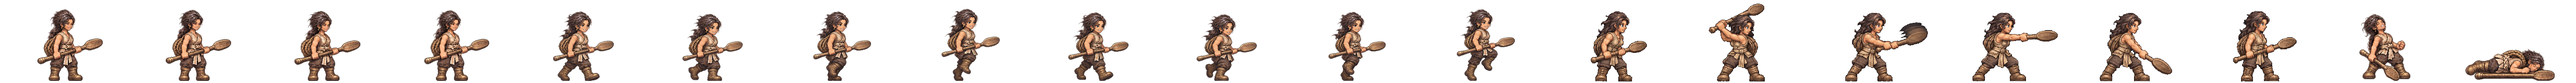
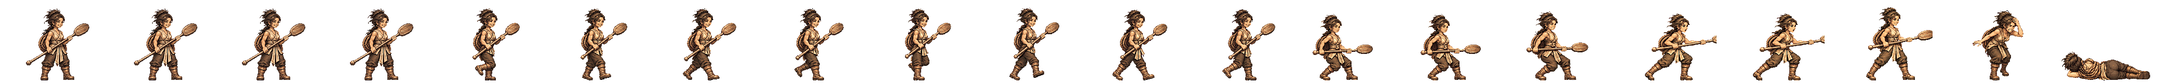
골포 잔물 전투 띠를 새 방식으로: 서기(노 길이 부분 편집 판)·걷기·주걱 노 찌르기 thrust3 여덟 칸(뒷발 박힘)·개성 동작·쓰러짐·맞음(다시 받은 노깃 있는 판) (Codex 그림 · 독립 검수 · 걷기 다리 교대는 다시 받아도 안 읽혀 앞 판 · kit 은 axe 그대로) · 옛 2배 그림 연결 지움
Claude-Session: https://claude.ai/code/session_01TRiuN7s6aDfSnaHxrkctmU

Changed region(s): [[0.0, 0.0625, 1.0, 1.0]]

diff --git a/src/realm/data/spritePx.ts b/src/realm/data/spritePx.ts
@@ -1,3 +1,3 @@
 /** public/realm/anim-px/manifest.json 의 사본 — tools/sprite-normalize.mjs 가 만든다 (손으로 고치지 말 것). 칸 [가로, 세로] · feet = 발 줄(칸 위에서 y) · bodyPx = 서 있는 몸 키 */
 import { expandManifest } from './sprite-manifest.ts'
-export const SPRITE_PX: Readonly<Record<string, { readonly cell: readonly [number, number]; readonly feet: number; readonly bodyPx: number; readonly kind: 'general' | 'soldier' | 'folk' | 'crowd'; readonly cells: number }>> = expandManifest<{ readonly cell: readonly [number, number]; readonly feet: number; readonly bodyPx: number; readonly kind: 'general' | 'soldier' | 'folk' | 'crowd'; readonly cells: number }>([{"cell":[166,128],"feet":126,"bodyPx":124,"kind":"soldier","cells":20},{"cell":[116,128],"feet":126,"bodyPx":117,"kind":"soldier","cells":20},{"cell":[127,128],"feet":126,"bodyPx":116,"kind":"soldier","cells":20},{"cell":[269,128],"feet":126,"bodyPx":126,"kind":"soldier","cells":20},{"cell":[503,128],"feet":126,"bodyPx":127,"kind":"soldier","cells":20},{"cell":[614,128],"feet":126,"bodyPx":126,"kind":"soldier","cells":20},{"cell":[200,160],"feet":156,"bodyPx":138,"kind":"general","cells":20},{"cell":[208,160],"feet":155,"bodyPx":138,"kind":"general","cells":20},{"cell":[208,160],"feet":154,"bodyPx":138,"kind":"general","cells":20},{"cell":[304,160],"feet":155,"bodyPx":135,"kind":"general","cells":20},{"cell":[184,160],"feet":156,"bodyPx":138,"kind":"general","cells":20},{"cell":[208,160],"feet":154,"bodyPx":136,"kind":"general","cells":20},{"cell":[232,160],"feet":156,"bodyPx":138,"kind":"general","cells":20},{"cell":[208,160],"feet":156,"bodyPx":138,"kind":"general","cells":20},{"cell":[168,160],"feet":156,"bodyPx":124,"kind":"general","cells":20},{"cell":[216,160],"feet":156,"bodyPx":130,"kind":"general","cells":20},{"cell":[200,160],"feet":156,"bodyPx":116,"kind":"general","cells":20},{"cell":[192,160],"feet":156,"bodyPx":138,"kind":"general","cells":20},{"cell":[208,160],"feet":154,"bodyPx":135,"kind":"general","cells":20},{"cell":[280,160],"feet":156,"bodyPx":138,"kind":"general","cells":20},{"cell":[232,160],"feet":156,"bodyPx":134,"kind":"general","cells":20},{"cell":[144,160],"feet":156,"bodyPx":70,"kind":"general","cells":20},{"cell":[208,160],"feet":156,"bodyPx":70,"kind":"general","cells":20},{"cell":[192,160],"feet":156,"bodyPx":70,"kind":"general","cells":20},{"cell":[240,160],"feet":155,"bodyPx":138,"kind":"general","cells":20},{"cell":[192,160],"feet":156,"bodyPx":128,"kind":"general","cells":20},{"cell":[208,160],"feet":154,"bodyPx":137,"kind":"general","cells":20},{"cell":[216,160],"feet":156,"bodyPx":138,"kind":"general","cells":20},{"cell":[208,160],"feet":156,"bodyPx":134,"kind":"general","cells":20},{"cell":[208,160],"feet":154,"bodyPx":130,"kind":"general","cells":20},{"cell":[248,160],"feet":156,"bodyPx":138,"kind":"general","cells":20},{"cell":[248,160],"feet":155,"bodyPx":138,"kind":"general","cells":20},{"cell":[192,160],"feet":155,"bodyPx":138,"kind":"general","cells":20},{"cell":[192,160],"feet":156,"bodyPx":124,"kind":"general","cells":20},{"cell":[208,160],"feet":154,"bodyPx":131,"kind":"general","cells":20},{"cell":[240,160],"feet":156,"bodyPx":138,"kind":"general","cells":20},{"cell":[232,160],"feet":156,"bodyPx":73,"kind":"general","cells":20},{"cell":[224,160],"feet":156,"bodyPx":138,"kind":"general","cells":20},{"cell":[224,160],"feet":156,"bodyPx":128,"kind":"general","cells":20},{"cell":[176,160],"feet":156,"bodyPx":129,"kind":"general","cells":20},{"cell":[208,160],"feet":154,"bodyPx":139,"kind":"general","cells":20},{"cell":[232,160],"feet":155,"bodyPx":138,"kind":"general","cells":20},{"cell":[208,160],"feet":156,"bodyPx":132,"kind":"general","cells":20},{"cell":[184,160],"feet":156,"bodyPx":122,"kind":"general","cells":20},{"cell":[280,160],"feet":155,"bodyPx":133,"kind":"general","cells":20},{"cell":[176,160],"feet":156,"bodyPx":70,"kind":"general","cells":20},{"cell":[186,128],"feet":126,"bodyPx":127,"kind":"soldier","cells":20},{"cell":[298,128],"feet":126,"bodyPx":126,"kind":"soldier","cells":20},{"cell":[82,128],"feet":126,"bodyPx":114,"kind":"folk","cells":8},{"cell":[134,128],"feet":126,"bodyPx":119,"kind":"soldier","cells":20},{"cell":[380,128],"feet":126,"bodyPx":124,"kind":"soldier","cells":20},{"cell":[114,128],"feet":126,"bodyPx":115,"kind":"soldier","cells":20},{"cell":[122,128],"feet":126,"bodyPx":114,"kind":"soldier","cells":20},{"cell":[254,128],"feet":126,"bodyPx":128,"kind":"soldier","cells":20},{"cell":[438,128],"feet":126,"bodyPx":126,"kind":"soldier","cells":20},{"cell":[88,128],"feet":126,"bodyPx":113,"kind":"folk","cells":8},{"cell":[100,128],"feet":126,"bodyPx":115,"kind":"folk","cells":8},{"cell":[108,128],"feet":126,"bodyPx":115,"kind":"folk","cells":8},{"cell":[63,128],"feet":126,"bodyPx":113,"kind":"folk","cells":8},{"cell":[69,96],"feet":96,"bodyPx":96,"kind":"crowd","cells":1},{"cell":[54,96],"feet":96,"bodyPx":96,"kind":"crowd","cells":1},{"cell":[47,96],"feet":96,"bodyPx":96,"kind":"crowd","cells":1},{"cell":[49,96],"feet":96,"bodyPx":96,"kind":"crowd","cells":1},{"cell":[57,96],"feet":96,"bodyPx":96,"kind":"crowd","cells":1},{"cell":[55,96],"feet":96,"bodyPx":96,"kind":"crowd","cells":1},{"cell":[45,96],"feet":96,"bodyPx":96,"kind":"crowd","cells":1},{"cell":[53,96],"feet":96,"bodyPx":96,"kind":"crowd","cells":1},{"cell":[64,96],"feet":96,"bodyPx":96,"kind":"crowd","cells":1},{"cell":[264,160],"feet":156,"bodyPx":138,"kind":"general","cells":20},{"cell":[184,160],"feet":156,"bodyPx":124,"kind":"general","cells":20},{"cell":[256,160],"feet":156,"bodyPx":138,"kind":"general","cells":20},{"cell":[208,160],"feet":154,"bodyPx":134,"kind":"general","cells":20},{"cell":[224,160],"feet":156,"bodyPx":133,"kind":"general","cells":20},{"cell":[184,160],"feet":156,"bodyPx":137,"kind":"general","cells":20},{"cell":[176,160],"feet":156,"bodyPx":130,"kind":"general","cells":20},{"cell":[216,160],"feet":156,"bodyPx":134,"kind":"general","cells":20},{"cell":[216,160],"feet":156,"bodyPx":132,"kind":"general","cells":20},{"cell":[288,160],"feet":156,"bodyPx":138,"kind":"general","cells":20},{"cell":[192,160],"feet":156,"bodyPx":118,"kind":"general","cells":20},{"cell":[208,160],"feet":154,"bodyPx":132,"kind":"general","cells":20},{"cell":[208,160],"feet":154,"bodyPx":128,"kind":"general","cells":20},{"cell":[240,160],"feet":156,"bodyPx":128,"kind":"general","cells":20},{"cell":[184,160],"feet":156,"bodyPx":132,"kind":"general","cells":20},{"cell":[208,160],"feet":156,"bodyPx":123,"kind":"general","cells":20},{"cell":[192,160],"feet":156,"bodyPx":135,"kind":"general","cells":20},{"cell":[176,160],"feet":156,"bodyPx":116,"kind":"general","cells":20},{"cell":[272,160],"feet":156,"bodyPx":138,"kind":"general","cells":20},{"cell":[176,160],"feet":156,"bodyPx":138,"kind":"general","cells":20},{"cell":[176,160],"feet":156,"bodyPx":122,"kind":"general","cells":20},{"cell":[232,160],"feet":156,"bodyPx":127,"kind":"general","cells":20},{"cell":[184,160],"feet":156,"bodyPx":134,"kind":"general","cells":20},{"cell":[168,160],"feet":156,"bodyPx":138,"kind":"general","cells":20},{"cell":[176,160],"feet":156,"bodyPx":137,"kind":"general","cells":20},{"cell":[184,160],"feet":156,"bodyPx":133,"kind":"general","cells":20}],[["axe",0],["bandit-chief",1],["bandit-club",2],["boat",3],["bow",4],["crossbow",5],["gen-adogan",6],["gen-alpyeong",7],["gen-ara",8],["gen-areum",8],["gen-aryeong",9],["gen-bakdal",8],["gen-baram",8],["gen-bdanbi",10],["gen-beom",11],["gen-beombal",8],["gen-beomi",8],["gen-bira",12],["gen-biryu",13],["gen-budeul",8],["gen-byeol",8],["gen-daemusin",14],["gen-daeso",15],["gen-dallae2",8],["gen-dalli",8],["gen-damul",16],["gen-danbi",8],["gen-dangung",17],["gen-darae",18],["gen-dokmudeom",8],["gen-duman",19],["gen-eomni",8],["gen-eureum",20],["gen-g-bow",21],["gen-g-spear",22],["gen-g-sword",23],["gen-gaennae",8],["gen-gamsil",24],["gen-gaon",18],["gen-geota",13],["gen-geumbawi",10],["gen-geumha",25],["gen-goeun",8],["gen-gom",8],["gen-gomok",13],["gen-gureum",8],["gen-guryema",17],["gen-gwaeyu",12],["gen-haebi",8],["gen-haedal",6],["gen-haesol",8],["gen-halla",26],["gen-heo",8],["gen-hneoul",27],["gen-hogong",27],["gen-hojin",13],["gen-horselord",28],["gen-hwalmi",29],["gen-hyeokgeose",17],["gen-hyeopbo",6],["gen-irang",8],["gen-jibaekho",30],["gen-jinha",31],["gen-jita",32],["gen-jumong",33],["gen-keundol",7],["gen-maehwa",34],["gen-maenun",17],["gen-malgalgi",8],["gen-mari",35],["gen-maro",30],["gen-maryeo",13],["gen-mdallae",8],["gen-mir",8],["gen-mount",36],["gen-mulbeom",26],["gen-mulsae",26],["gen-musoe",27],["gen-noeul",8],["gen-nuri",8],["gen-ocheongan",37],["gen-odi",8],["gen-odogan",6],["gen-ogan",17],["gen-oi",38],["gen-olddaeso",20],["gen-onjo",39],["gen-pidogan",13],["gen-sagong",40],["gen-sdallae",8],["gen-sincheongan",8],["gen-singwigan",27],["gen-sinneoul",8],["gen-sobeol",41],["gen-soebi",8],["gen-soebo",42],["gen-soenun",40],["gen-sogeumbi",26],["gen-songbi",8],["gen-songyang",43],["gen-sori",8],["gen-soseono",44],["gen-suro",17],["gen-tahae",6],["gen-tneoul",8],["gen-w-bow",21],["gen-w-spear",45],["gen-waechief",13],["gen-wan",27],["gen-yeodogan",13],["gen-yucheongan",8],["gen-yusugan",30],["horse",46],["marine",47],["migrant",48],["militia",49],["pike",50],["pirate-captain",51],["pirate-sword",52],["shield",53],["spear",54],["villager-builder",55],["villager-farmer",56],["villager-porter",57],["villager-woman",58],["crowd-b1",59],["crowd-b2",60],["crowd-b3",61],["crowd-b4",62],["crowd-b5",63],["crowd-b6",64],["crowd-f1",59],["crowd-f2",64],["crowd-f3",65],["crowd-f4",66],["crowd-f5",59],["crowd-f6",67],["gen-dalbit",13],["gen-base-g-07-drunk-warrior",17],["gen-base-g-40-anya-adan",13],["gen-base-w-13-young-archer",8],["gen-base-g-03-sea-trader",35],["gen-base-w-10-pirate-captain",40],["gen-base-w-64-miri-dallae",40],["gen-base-g-41-goja-bau",35],["gen-base-g-42-dokro-garam",68],["gen-base-g-09-farmer-conscript",27],["gen-base-w-02-goguryeo-lady",8],["gen-base-w-17-mahan-pearl-diver",8],["gen-base-g-17-saro-isageum",42],["gen-base-g-18-daegaya-king",69],["gen-base-g-35-dabeol-dalgu",13],["gen-base-g-19-sabeol-veteran",27],["gen-base-w-23-usisan-whale-queen",8],["gen-base-g-36-gammun-gamdol",37],["gen-base-g-20-samul-sea-lord",70],["gen-base-g-37-eumjeup-jeup",10],["gen-base-g-38-chopal-palmae",17],["gen-base-w-75-daegaya-soemoe",8],["gen-base-g-45-dabeol-deulgae",10],["gen-base-g-04-jinhan-giant",13],["gen-base-g-08-veteran",13],["gen-base-w-18-jinhan-salt-widow",8],["gen-base-w-12-court-dancer",71],["gen-base-w-83-gyeonji-beodeul",72],["gen-base-w-05-baekje-queen",18],["gen-base-w-21-baekje-court-dancer",10],["gen-base-g-01-master-smith",73],["gen-base-g-93-jomun-solgae",74],["gen-base-g-57-bihwa-neup",35],["gen-base-w-72-eumjeup-beol",8],["gen-base-w-102-garak-dana",40],["gen-base-g-68-baekje-onnuri",13],["gen-base-w-27-mokji-jinha",6],["gen-base-g-22-ungcheon-gomnae",6],["gen-base-g-23-sangdang-soedal",13],["gen-base-g-24-wansan-onsan",6],["gen-base-g-25-balla-keunmoe",27],["gen-base-g-61-heomcheuk-bawi",27],["gen-base-g-88-wander-soeul",37],["gen-base-w-14-feast-spy",8],["gen-base-g-12-silla-youth",75],["gen-base-w-08-mahan-warrior",8],["gen-base-g-62-beonye-hanul",35],["gen-base-g-63-heomcheuk-beogeum",13],["gen-base-g-84-wander-seoneul",13],["gen-base-w-50-siljik-mulga",27],["gen-base-g-46-uga-nureongso",27],["gen-base-w-80-usan-gangchi",40],["gen-base-g-47-guga-sanyanggae",27],["gen-base-w-76-gampyeong-baetsagong",8],["gen-base-g-05-mahan-chieftain",76],["gen-base-g-58-usan-uhae",13],["gen-base-g-27-maek-maekdol",13],["gen-base-w-53-hwanna-gabi",40],["gen-base-w-29-golpo-janmul",30],["gen-base-g-53-baekje-haeru",6],["gen-base-w-71-yeonna-neoul",8],["gen-base-w-79-yangmaek-solmae",8],["gen-base-w-34-chopal-deulme",8],["gen-base-g-44-maga-malgup",77],["gen-base-w-31-dabeol-dalbit",40],["gen-base-g-51-biryuna-mulgyeol",37],["gen-base-g-48-gwanna-musoe",13],["gen-base-g-32-uga-sodu",12],["gen-base-g-49-goguryeo-sona",78],["gen-base-g-30-gwanna-soemoe",37],["gen-base-g-52-tamna-oreum",10],["gen-base-g-29-yeonna-myeongsol",33],["gen-base-w-56-dongokjeo-sogeum",71],["gen-base-g-54-mokji-mahan",12],["gen-base-g-33-jeoga-metdol",17],["gen-base-w-36-baekje-maena",8],["gen-base-w-38-sangdang-bulmae",40],["gen-base-w-39-gosaburi-galmae",8],["gen-base-w-40-mujin-munui",79],["gen-base-w-41-hwanna-beodeul",80],["gen-base-w-43-uga-nuri",70],["gen-base-w-45-tamna-oreumbi",10],["gen-base-g-60-golbeol-golgae",10],["gen-base-g-61-apdok-ap",27],["gen-base-g-62-gammun-gamnamu",6],["gen-base-g-63-chopal-yeoul",30],["gen-base-g-64-michuhol-sogeumkkun",35],["gen-base-g-65-sangdang-soemangchi",37],["gen-base-g-66-geonma-malbalgup",81],["gen-base-g-67-gosaburi-buri",82],["gen-base-g-68-mujin-bitgoeul",10],["gen-base-g-69-goryong-yong",37],["gen-base-g-70-siljik-pado",35],["gen-base-w-81-byeokjin-byeolbit",8],["gen-base-w-46-geonma-maru",8],["gen-base-w-48-mujin-mudeung",8],["gen-base-g-26-gampyeong-gaetbeol",12],["gen-base-g-60-eupcha-hangyeol",83],["gen-base-g-15-shaman-man",27],["gen-base-g-85-wander-ure",30],["gen-base-g-43-hwanna-amnok",13],["gen-base-g-50-bullae-gwaha",84],["gen-base-g-55-saro-bakdal",13],["gen-base-g-56-haseulla-gwahama",6],["gen-base-w-06-buyeo-huntress",26],["gen-base-w-22-dongye-tiger-huntress",8],["gen-base-w-25-bihwa-priestess",8],["gen-base-w-24-apdok-queen",8],["gen-base-w-61-iseo-sinae",8],["gen-base-w-26-iseo-tomboy-general",8],["gen-base-g-59-yangmaek-maekson",85],["gen-aw1-haebi",37],["gen-aw1-soseono",86],["gen-aw1-gamsil",10],["gen-aw1-mir",87],["gen-aw1-dangung",6],["gen-aw1-ara",37],["gen-aw1-jumong",88],["gen-aw1-onjo",89],["gen-aw1-base-w-83-gyeonji-beodeul",17],["gen-aw1-heo",68],["gen-aw1-base-g-38-chopal-palmae",6],["gen-aw1-base-w-25-bihwa-priestess",90],["gen-aw1-sori",91],["gen-aw1-gomok",6],["gen-aw1-irang",17],["gen-aw1-budeul",91],["gen-aw1-gom",35],["gen-aw1-sdallae",6],["gen-aw1-base-w-13-young-archer",6],["gen-aw1-base-w-36-baekje-maena",92],["gen-aw1-base-g-09-farmer-conscript",68],["gen-aw1-base-w-02-goguryeo-lady",93],["gen-aw1-haedal",10],["gen-aw1-hogong",6],["gen-aw1-maehwa",87],["gen-aw1-base-w-06-buyeo-huntress",12],["gen-aw1-base-w-08-mahan-warrior",37],["gen-aw1-base-w-29-golpo-janmul",37],["gen-aw1-base-w-31-dabeol-dalbit",17],["gen-aw1-base-w-38-sangdang-bulmae",91],["gen-aw1-bira",27],["gen-aw1-base-w-53-hwanna-gabi",91],["gen-aw1-base-w-56-dongokjeo-sogeum",87],["gen-aw1-base-w-72-eumjeup-beol",17],["gen-aw1-bdanbi",91],["gen-aw1-beom",10],["gen-aw1-beombal",10],["gen-aw1-byeol",17],["gen-aw1-dalli",87],["gen-aw1-malgalgi",30],["gen-aw1-sincheongan",27]])
+export const SPRITE_PX: Readonly<Record<string, { readonly cell: readonly [number, number]; readonly feet: number; readonly bodyPx: number; readonly kind: 'general' | 'soldier' | 'folk' | 'crowd'; readonly cells: number }>> = expandManifest<{ readonly cell: readonly [number, number]; readonly feet: number; readonly bodyPx: number; readonly kind: 'general' | 'soldier' | 'folk' | 'crowd'; readonly cells: number }>([{"cell":[166,128],"feet":126,"bodyPx":124,"kind":"soldier","cells":20},{"cell":[116,128],"feet":126,"bodyPx":117,"kind":"soldier","cells":20},{"cell":[127,128],"feet":126,"bodyPx":116,"kind":"soldier","cells":20},{"cell":[269,128],"feet":126,"bodyPx":126,"kind":"soldier","cells":20},{"cell":[503,128],"feet":126,"bodyPx":127,"kind":"soldier","cells":20},{"cell":[614,128],"feet":126,"bodyPx":126,"kind":"soldier","cells":20},{"cell":[200,160],"feet":156,"bodyPx":138,"kind":"general","cells":20},{"cell":[208,160],"feet":155,"bodyPx":138,"kind":"general","cells":20},{"cell":[208,160],"feet":154,"bodyPx":138,"kind":"general","cells":20},{"cell":[304,160],"feet":155,"bodyPx":135,"kind":"general","cells":20},{"cell":[184,160],"feet":156,"bodyPx":138,"kind":"general","cells":20},{"cell":[208,160],"feet":154,"bodyPx":136,"kind":"general","cells":20},{"cell":[232,160],"feet":156,"bodyPx":138,"kind":"general","cells":20},{"cell":[208,160],"feet":156,"bodyPx":138,"kind":"general","cells":20},{"cell":[168,160],"feet":156,"bodyPx":124,"kind":"general","cells":20},{"cell":[216,160],"feet":156,"bodyPx":130,"kind":"general","cells":20},{"cell":[200,160],"feet":156,"bodyPx":116,"kind":"general","cells":20},{"cell":[192,160],"feet":156,"bodyPx":138,"kind":"general","cells":20},{"cell":[208,160],"feet":154,"bodyPx":135,"kind":"general","cells":20},{"cell":[280,160],"feet":156,"bodyPx":138,"kind":"general","cells":20},{"cell":[232,160],"feet":156,"bodyPx":134,"kind":"general","cells":20},{"cell":[144,160],"feet":156,"bodyPx":70,"kind":"general","cells":20},{"cell":[208,160],"feet":156,"bodyPx":70,"kind":"general","cells":20},{"cell":[192,160],"feet":156,"bodyPx":70,"kind":"general","cells":20},{"cell":[240,160],"feet":155,"bodyPx":138,"kind":"general","cells":20},{"cell":[192,160],"feet":156,"bodyPx":128,"kind":"general","cells":20},{"cell":[208,160],"feet":154,"bodyPx":137,"kind":"general","cells":20},{"cell":[216,160],"feet":156,"bodyPx":138,"kind":"general","cells":20},{"cell":[208,160],"feet":156,"bodyPx":134,"kind":"general","cells":20},{"cell":[208,160],"feet":154,"bodyPx":130,"kind":"general","cells":20},{"cell":[248,160],"feet":156,"bodyPx":138,"kind":"general","cells":20},{"cell":[248,160],"feet":155,"bodyPx":138,"kind":"general","cells":20},{"cell":[192,160],"feet":155,"bodyPx":138,"kind":"general","cells":20},{"cell":[192,160],"feet":156,"bodyPx":124,"kind":"general","cells":20},{"cell":[208,160],"feet":154,"bodyPx":131,"kind":"general","cells":20},{"cell":[240,160],"feet":156,"bodyPx":138,"kind":"general","cells":20},{"cell":[232,160],"feet":156,"bodyPx":73,"kind":"general","cells":20},{"cell":[224,160],"feet":156,"bodyPx":138,"kind":"general","cells":20},{"cell":[224,160],"feet":156,"bodyPx":128,"kind":"general","cells":20},{"cell":[176,160],"feet":156,"bodyPx":129,"kind":"general","cells":20},{"cell":[208,160],"feet":154,"bodyPx":139,"kind":"general","cells":20},{"cell":[232,160],"feet":155,"bodyPx":138,"kind":"general","cells":20},{"cell":[208,160],"feet":156,"bodyPx":132,"kind":"general","cells":20},{"cell":[184,160],"feet":156,"bodyPx":122,"kind":"general","cells":20},{"cell":[280,160],"feet":155,"bodyPx":133,"kind":"general","cells":20},{"cell":[176,160],"feet":156,"bodyPx":70,"kind":"general","cells":20},{"cell":[186,128],"feet":126,"bodyPx":127,"kind":"soldier","cells":20},{"cell":[298,128],"feet":126,"bodyPx":126,"kind":"soldier","cells":20},{"cell":[82,128],"feet":126,"bodyPx":114,"kind":"folk","cells":8},{"cell":[134,128],"feet":126,"bodyPx":119,"kind":"soldier","cells":20},{"cell":[380,128],"feet":126,"bodyPx":124,"kind":"soldier","cells":20},{"cell":[114,128],"feet":126,"bodyPx":115,"kind":"soldier","cells":20},{"cell":[122,128],"feet":126,"bodyPx":114,"kind":"soldier","cells":20},{"cell":[254,128],"feet":126,"bodyPx":128,"kind":"soldier","cells":20},{"cell":[438,128],"feet":126,"bodyPx":126,"kind":"soldier","cells":20},{"cell":[88,128],"feet":126,"bodyPx":113,"kind":"folk","cells":8},{"cell":[100,128],"feet":126,"bodyPx":115,"kind":"folk","cells":8},{"cell":[108,128],"feet":126,"bodyPx":115,"kind":"folk","cells":8},{"cell":[63,128],"feet":126,"bodyPx":113,"kind":"folk","cells":8},{"cell":[69,96],"feet":96,"bodyPx":96,"kind":"crowd","cells":1},{"cell":[54,96],"feet":96,"bodyPx":96,"kind":"crowd","cells":1},{"cell":[47,96],"feet":96,"bodyPx":96,"kind":"crowd","cells":1},{"cell":[49,96],"feet":96,"bodyPx":96,"kind":"crowd","cells":1},{"cell":[57,96],"feet":96,"bodyPx":96,"kind":"crowd","cells":1},{"cell":[55,96],"feet":96,"bodyPx":96,"kind":"crowd","cells":1},{"cell":[45,96],"feet":96,"bodyPx":96,"kind":"crowd","cells":1},{"cell":[53,96],"feet":96,"bodyPx":96,"kind":"crowd","cells":1},{"cell":[64,96],"feet":96,"bodyPx":96,"kind":"crowd","cells":1},{"cell":[264,160],"feet":156,"bodyPx":138,"kind":"general","cells":20},{"cell":[184,160],"feet":156,"bodyPx":124,"kind":"general","cells":20},{"cell":[256,160],"feet":156,"bodyPx":138,"kind":"general","cells":20},{"cell":[208,160],"feet":154,"bodyPx":134,"kind":"general","cells":20},{"cell":[224,160],"feet":156,"bodyPx":133,"kind":"general","cells":20},{"cell":[184,160],"feet":156,"bodyPx":137,"kind":"general","cells":20},{"cell":[176,160],"feet":156,"bodyPx":130,"kind":"general","cells":20},{"cell":[216,160],"feet":156,"bodyPx":134,"kind":"general","cells":20},{"cell":[216,160],"feet":156,"bodyPx":132,"kind":"general","cells":20},{"cell":[288,160],"feet":156,"bodyPx":138,"kind":"general","cells":20},{"cell":[192,160],"feet":156,"bodyPx":118,"kind":"general","cells":20},{"cell":[208,160],"feet":154,"bodyPx":132,"kind":"general","cells":20},{"cell":[208,160],"feet":154,"bodyPx":128,"kind":"general","cells":20},{"cell":[240,160],"feet":156,"bodyPx":128,"kind":"general","cells":20},{"cell":[184,160],"feet":156,"bodyPx":132,"kind":"general","cells":20},{"cell":[208,160],"feet":156,"bodyPx":123,"kind":"general","cells":20},{"cell":[192,160],"feet":156,"bodyPx":135,"kind":"general","cells":20},{"cell":[176,160],"feet":156,"bodyPx":116,"kind":"general","cells":20},{"cell":[272,160],"feet":156,"bodyPx":138,"kind":"general","cells":20},{"cell":[176,160],"feet":156,"bodyPx":138,"kind":"general","cells":20},{"cell":[176,160],"feet":156,"bodyPx":122,"kind":"general","cells":20},{"cell":[232,160],"feet":156,"bodyPx":127,"kind":"general","cells":20},{"cell":[184,160],"feet":156,"bodyPx":134,"kind":"general","cells":20},{"cell":[168,160],"feet":156,"bodyPx":138,"kind":"general","cells":20},{"cell":[176,160],"feet":156,"bodyPx":137,"kind":"general","cells":20},{"cell":[184,160],"feet":156,"bodyPx":133,"kind":"general","cells":20}],[["axe",0],["bandit-chief",1],["bandit-club",2],["boat",3],["bow",4],["crossbow",5],["gen-adogan",6],["gen-alpyeong",7],["gen-ara",8],["gen-areum",8],["gen-aryeong",9],["gen-bakdal",8],["gen-baram",8],["gen-bdanbi",10],["gen-beom",11],["gen-beombal",8],["gen-beomi",8],["gen-bira",12],["gen-biryu",13],["gen-budeul",8],["gen-byeol",8],["gen-daemusin",14],["gen-daeso",15],["gen-dallae2",8],["gen-dalli",8],["gen-damul",16],["gen-danbi",8],["gen-dangung",17],["gen-darae",18],["gen-dokmudeom",8],["gen-duman",19],["gen-eomni",8],["gen-eureum",20],["gen-g-bow",21],["gen-g-spear",22],["gen-g-sword",23],["gen-gaennae",8],["gen-gamsil",24],["gen-gaon",18],["gen-geota",13],["gen-geumbawi",10],["gen-geumha",25],["gen-goeun",8],["gen-gom",8],["gen-gomok",13],["gen-gureum",8],["gen-guryema",17],["gen-gwaeyu",12],["gen-haebi",8],["gen-haedal",6],["gen-haesol",8],["gen-halla",26],["gen-heo",8],["gen-hneoul",27],["gen-hogong",27],["gen-hojin",13],["gen-horselord",28],["gen-hwalmi",29],["gen-hyeokgeose",17],["gen-hyeopbo",6],["gen-irang",8],["gen-jibaekho",30],["gen-jinha",31],["gen-jita",32],["gen-jumong",33],["gen-keundol",7],["gen-maehwa",34],["gen-maenun",17],["gen-malgalgi",8],["gen-mari",35],["gen-maro",30],["gen-maryeo",13],["gen-mdallae",8],["gen-mir",8],["gen-mount",36],["gen-mulbeom",26],["gen-mulsae",26],["gen-musoe",27],["gen-noeul",8],["gen-nuri",8],["gen-ocheongan",37],["gen-odi",8],["gen-odogan",6],["gen-ogan",17],["gen-oi",38],["gen-olddaeso",20],["gen-onjo",39],["gen-pidogan",13],["gen-sagong",40],["gen-sdallae",8],["gen-sincheongan",8],["gen-singwigan",27],["gen-sinneoul",8],["gen-sobeol",41],["gen-soebi",8],["gen-soebo",42],["gen-soenun",40],["gen-sogeumbi",26],["gen-songbi",8],["gen-songyang",43],["gen-sori",8],["gen-soseono",44],["gen-suro",17],["gen-tahae",6],["gen-tneoul",8],["gen-w-bow",21],["gen-w-spear",45],["gen-waechief",13],["gen-wan",27],["gen-yeodogan",13],["gen-yucheongan",8],["gen-yusugan",30],["horse",46],["marine",47],["migrant",48],["militia",49],["pike",50],["pirate-captain",51],["pirate-sword",52],["shield",53],["spear",54],["villager-builder",55],["villager-farmer",56],["villager-porter",57],["villager-woman",58],["crowd-b1",59],["crowd-b2",60],["crowd-b3",61],["crowd-b4",62],["crowd-b5",63],["crowd-b6",64],["crowd-f1",59],["crowd-f2",64],["crowd-f3",65],["crowd-f4",66],["crowd-f5",59],["crowd-f6",67],["gen-dalbit",13],["gen-base-g-07-drunk-warrior",17],["gen-base-g-40-anya-adan",13],["gen-base-w-13-young-archer",8],["gen-base-g-03-sea-trader",35],["gen-base-w-10-pirate-captain",40],["gen-base-w-64-miri-dallae",40],["gen-base-g-41-goja-bau",35],["gen-base-g-42-dokro-garam",68],["gen-base-g-09-farmer-conscript",27],["gen-base-w-02-goguryeo-lady",8],["gen-base-w-17-mahan-pearl-diver",8],["gen-base-g-17-saro-isageum",42],["gen-base-g-18-daegaya-king",69],["gen-base-g-35-dabeol-dalgu",13],["gen-base-g-19-sabeol-veteran",27],["gen-base-w-23-usisan-whale-queen",8],["gen-base-g-36-gammun-gamdol",37],["gen-base-g-20-samul-sea-lord",70],["gen-base-g-37-eumjeup-jeup",10],["gen-base-g-38-chopal-palmae",17],["gen-base-w-75-daegaya-soemoe",8],["gen-base-g-45-dabeol-deulgae",10],["gen-base-g-04-jinhan-giant",13],["gen-base-g-08-veteran",13],["gen-base-w-18-jinhan-salt-widow",8],["gen-base-w-12-court-dancer",71],["gen-base-w-83-gyeonji-beodeul",72],["gen-base-w-05-baekje-queen",18],["gen-base-w-21-baekje-court-dancer",10],["gen-base-g-01-master-smith",73],["gen-base-g-93-jomun-solgae",74],["gen-base-g-57-bihwa-neup",35],["gen-base-w-72-eumjeup-beol",8],["gen-base-w-102-garak-dana",40],["gen-base-g-68-baekje-onnuri",13],["gen-base-w-27-mokji-jinha",6],["gen-base-g-22-ungcheon-gomnae",6],["gen-base-g-23-sangdang-soedal",13],["gen-base-g-24-wansan-onsan",6],["gen-base-g-25-balla-keunmoe",27],["gen-base-g-61-heomcheuk-bawi",27],["gen-base-g-88-wander-soeul",37],["gen-base-w-14-feast-spy",8],["gen-base-g-12-silla-youth",75],["gen-base-w-08-mahan-warrior",8],["gen-base-g-62-beonye-hanul",35],["gen-base-g-63-heomcheuk-beogeum",13],["gen-base-g-84-wander-seoneul",13],["gen-base-w-50-siljik-mulga",27],["gen-base-g-46-uga-nureongso",27],["gen-base-w-80-usan-gangchi",40],["gen-base-g-47-guga-sanyanggae",27],["gen-base-w-76-gampyeong-baetsagong",8],["gen-base-g-05-mahan-chieftain",76],["gen-base-g-58-usan-uhae",13],["gen-base-g-27-maek-maekdol",13],["gen-base-w-53-hwanna-gabi",40],["gen-base-w-29-golpo-janmul",8],["gen-base-g-53-baekje-haeru",6],["gen-base-w-71-yeonna-neoul",8],["gen-base-w-79-yangmaek-solmae",8],["gen-base-w-34-chopal-deulme",8],["gen-base-g-44-maga-malgup",77],["gen-base-w-31-dabeol-dalbit",40],["gen-base-g-51-biryuna-mulgyeol",37],["gen-base-g-48-gwanna-musoe",13],["gen-base-g-32-uga-sodu",12],["gen-base-g-49-goguryeo-sona",78],["gen-base-g-30-gwanna-soemoe",37],["gen-base-g-52-tamna-oreum",10],["gen-base-g-29-yeonna-myeongsol",33],["gen-base-w-56-dongokjeo-sogeum",71],["gen-base-g-54-mokji-mahan",12],["gen-base-g-33-jeoga-metdol",17],["gen-base-w-36-baekje-maena",8],["gen-base-w-38-sangdang-bulmae",40],["gen-base-w-39-gosaburi-galmae",8],["gen-base-w-40-mujin-munui",79],["gen-base-w-41-hwanna-beodeul",80],["gen-base-w-43-uga-nuri",70],["gen-base-w-45-tamna-oreumbi",10],["gen-base-g-60-golbeol-golgae",10],["gen-base-g-61-apdok-ap",27],["gen-base-g-62-gammun-gamnamu",6],["gen-base-g-63-chopal-yeoul",30],["gen-base-g-64-michuhol-sogeumkkun",35],["gen-base-g-65-sangdang-soemangchi",37],["gen-base-g-66-geonma-malbalgup",81],["gen-base-g-67-gosaburi-buri",82],["gen-base-g-68-mujin-bitgoeul",10],["gen-base-g-69-goryong-yong",37],["gen-base-g-70-siljik-pado",35],["gen-base-w-81-byeokjin-byeolbit",8],["gen-base-w-46-geonma-maru",8],["gen-base-w-48-mujin-mudeung",8],["gen-base-g-26-gampyeong-gaetbeol",12],["gen-base-g-60-eupcha-hangyeol",83],["gen-base-g-15-shaman-man",27],["gen-base-g-85-wander-ure",30],["gen-base-g-43-hwanna-amnok",13],["gen-base-g-50-bullae-gwaha",84],["gen-base-g-55-saro-bakdal",13],["gen-base-g-56-haseulla-gwahama",6],["gen-base-w-06-buyeo-huntress",26],["gen-base-w-22-dongye-tiger-huntress",8],["gen-base-w-25-bihwa-priestess",8],["gen-base-w-24-apdok-queen",8],["gen-base-w-61-iseo-sinae",8],["gen-base-w-26-iseo-tomboy-general",8],["gen-base-g-59-yangmaek-maekson",85],["gen-aw1-haebi",37],["gen-aw1-soseono",86],["gen-aw1-gamsil",10],["gen-aw1-mir",87],["gen-aw1-dangung",6],["gen-aw1-ara",37],["gen-aw1-jumong",88],["gen-aw1-onjo",89],["gen-aw1-base-w-83-gyeonji-beodeul",17],["gen-aw1-heo",68],["gen-aw1-base-g-38-chopal-palmae",6],["gen-aw1-base-w-25-bihwa-priestess",90],["gen-aw1-sori",91],["gen-aw1-gomok",6],["gen-aw1-irang",17],["gen-aw1-budeul",91],["gen-aw1-gom",35],["gen-aw1-sdallae",6],["gen-aw1-base-w-13-young-archer",6],["gen-aw1-base-w-36-baekje-maena",92],["gen-aw1-base-g-09-farmer-conscript",68],["gen-aw1-base-w-02-goguryeo-lady",93],["gen-aw1-haedal",10],["gen-aw1-hogong",6],["gen-aw1-maehwa",87],["gen-aw1-base-w-06-buyeo-huntress",12],["gen-aw1-base-w-08-mahan-warrior",37],["gen-aw1-base-w-29-golpo-janmul",37],["gen-aw1-base-w-31-dabeol-dalbit",17],["gen-aw1-base-w-38-sangdang-bulmae",91],["gen-aw1-bira",27],["gen-aw1-base-w-53-hwanna-gabi",91],["gen-aw1-base-w-56-dongokjeo-sogeum",87],["gen-aw1-base-w-72-eumjeup-beol",17],["gen-aw1-bdanbi",91],["gen-aw1-beom",10],["gen-aw1-beombal",10],["gen-aw1-byeol",17],["gen-aw1-dalli",87],["gen-aw1-malgalgi",30],["gen-aw1-sincheongan",27]])

diff --git a/src/duel/view.ts b/src/duel/view.ts
@@ -100,7 +100,7 @@ const crowdFront = [1, 2, 3, 4, 5, 6].map((i) => img(`realm/duel/crowd/b${i}.png
 const crowdReady = (set: HTMLImageElement[]): boolean => set.every((im) => im.complete && im.naturalWidth > 0)
 const pxMode = cfg.px !== false && params.get('px') !== '0'
 /** 겨루기 전용 옛 띠(duel/sprites) 대신 열전과 같은 도트 띠(anim-px)를 쓰는 장수 — 두 판에서 같은 모습 · 서기 계획·쓰러지는 칸도 같다 (11-23 범 · 매화 · 달빛 · 11-24 해비 · 아룸) */
-const PX_DUEL: ReadonlySet<string> = new Set(['beom', 'maehwa', 'base-w-31-dabeol-dalbit', 'haebi', 'areum', 'base-w-13-young-archer', 'base-w-10-pirate-captain', 'base-w-17-mahan-pearl-diver', 'base-w-06-buyeo-huntress', 'base-w-64-miri-dallae', 'ara', 'base-w-22-dongye-tiger-huntress', 'noeul', 'sagong', 'sinneoul', 'heo', 'base-w-08-mahan-warrior', 'base-w-23-usisan-whale-queen', 'base-w-26-iseo-tomboy-general', 'base-w-72-eumjeup-beol', 'tneoul', 'odi', 'base-w-76-gampyeong-baetsagong', 'base-w-34-chopal-deulme', 'base-w-102-garak-dana', 'base-w-36-baekje-maena', 'base-w-56-dongokjeo-sogeum', 'budeul', 'base-w-53-hwanna-gabi', 'base-w-18-jinhan-salt-widow', 'beombal', 'irang', 'sogeumbi', 'baram', 'byeol', 'base-w-71-yeonna-neoul', 'base-w-39-gosaburi-galmae', 'base-w-41-hwanna-beodeul', 'base-w-79-yangmaek-solmae', 'base-w-46-geonma-maru', 'base-w-48-mujin-mudeung', 'base-w-80-usan-gangchi', 'base-w-81-byeokjin-byeolbit', 'beomi', 'danbi', 'dalli', 'gureum', 'haesol', 'soenun', 'eomni', 'mulbeom', 'mulsae', 'bakdal', 'darae', 'sori', 'base-w-12-court-dancer', 'hwalmi', 'gaennae', 'dokmudeom', 'base-w-14-feast-spy', 'base-w-25-bihwa-priestess', 'sincheongan', 'base-w-40-mujin-munui', 'halla', 'yucheongan', 'base-w-02-goguryeo-lady', 'gaon', 'base-w-24-apdok-queen', 'base-w-61-iseo-sinae', 'goeun', 'base-w-05-baekje-queen', 'mdallae', 'nuri', 'base-w-75-daegaya-soemoe', 'soebi', 'base-w-38-sangdang-bulmae', 'gom', 'songbi', 'malgalgi', 'dallae2', 'hneoul', 'sdallae', 'mir', 'aryeong'])
+const PX_DUEL: ReadonlySet<string> = new Set(['beom', 'maehwa', 'base-w-31-dabeol-dalbit', 'haebi', 'areum', 'base-w-13-young-archer', 'base-w-10-pirate-captain', 'base-w-17-mahan-pearl-diver', 'base-w-06-buyeo-huntress', 'base-w-64-miri-dallae', 'ara', 'base-w-22-dongye-tiger-huntress', 'noeul', 'sagong', 'sinneoul', 'heo', 'base-w-08-mahan-warrior', 'base-w-23-usisan-whale-queen', 'base-w-26-iseo-tomboy-general', 'base-w-72-eumjeup-beol', 'tneoul', 'odi', 'base-w-76-gampyeong-baetsagong', 'base-w-34-chopal-deulme', 'base-w-102-garak-dana', 'base-w-36-baekje-maena', 'base-w-56-dongokjeo-sogeum', 'budeul', 'base-w-53-hwanna-gabi', 'base-w-18-jinhan-salt-widow', 'beombal', 'irang', 'sogeumbi', 'baram', 'byeol', 'base-w-71-yeonna-neoul', 'base-w-39-gosaburi-galmae', 'base-w-41-hwanna-beodeul', 'base-w-79-yangmaek-solmae', 'base-w-46-geonma-maru', 'base-w-48-mujin-mudeung', 'base-w-80-usan-gangchi', 'base-w-81-byeokjin-byeolbit', 'beomi', 'danbi', 'dalli', 'gureum', 'haesol', 'soenun', 'eomni', 'mulbeom', 'mulsae', 'bakdal', 'darae', 'sori', 'base-w-12-court-dancer', 'hwalmi', 'gaennae', 'dokmudeom', 'base-w-14-feast-spy', 'base-w-25-bihwa-priestess', 'sincheongan', 'base-w-40-mujin-munui', 'halla', 'yucheongan', 'base-w-02-goguryeo-lady', 'gaon', 'base-w-24-apdok-queen', 'base-w-61-iseo-sinae', 'goeun', 'base-w-05-baekje-queen', 'mdallae', 'nuri', 'base-w-75-daegaya-soemoe', 'soebi', 'base-w-38-sangdang-bulmae', 'gom', 'songbi', 'malgalgi', 'dallae2', 'hneoul', 'sdallae', 'mir', 'aryeong', 'base-w-29-golpo-janmul'])
 /** 띠 그림 — 기본은 anim-px(도트 규격) 먼저, 없으면 옛 띠로 (img 의 onerror 가 갈아 끼운다) */
 const strip = (s: string): HTMLImageElement => pxMode
   ? DUEL_ATLASES[s] !== undefined && !PX_DUEL.has(s) ? img(`realm/duel/sprites/gen-${s}.png`, `realm/anim-px/gen-${s}.png`)

diff --git a/src/tune/params.ts b/src/tune/params.ts
@@ -1555,6 +1555,7 @@ export const HAEBI_IDLE = {
     sdallae: { cells: 26, base: [0, 1], hold: 2.4, fall: [18, 20, 21, 19], hurt: [22, 23], rise: [24, 25] },
     mir: { cells: 30, base: [0, 1], hold: 2.4, fall: [18, 20, 21, 19], quirk: [22, 23, 24, 25], quirkTimes: [.28, .3, .42, .25], hurt: [26, 27], rise: [28, 29] },
     aryeong: { cells: 38, base: [0, 1], hold: 2.4, fall: [18, 20, 21, 19], quirk: [22, 23, 24, 25], quirkTimes: [.3, .32, .4, .28], attack: { cells: [26, 27, 28, 29, 30, 31, 32, 33], times: [.09, .08, .11, .05, .15, .07, .08, .12], hit: 4 }, hurt: [34, 35], rise: [36, 37], xGeom: { h: 224, root: 92, foot: 216 } },
+    'base-w-29-golpo-janmul': { cells: 38, base: [0, 1], hold: 2.4, fall: [18, 20, 21, 19], quirk: [22, 23, 24, 25], quirkTimes: [.3, .32, .4, .28], attack: { cells: [26, 27, 28, 29, 30, 31, 32, 33], times: [.09, .08, .11, .05, .15, .07, .08, .12], hit: 4 }, hurt: [34, 35], rise: [36, 37], xGeom: { h: 224, root: 92, foot: 216 } },
   },
 } as const
 export const HAEBI_ANIM = {

diff --git a/src/raid/hero-hd.ts b/src/raid/hero-hd.ts
@@ -14,7 +14,6 @@ export const HERO_HD: Readonly<Record<string, string>> = {
   'anim-px/gen-aw1-base-w-56-dongokjeo-sogeum.png': 'anim-px/gen-aw1-base-w-56-dongokjeo-sogeum_hd.png',
   'anim-px/gen-aw1-base-w-53-hwanna-gabi.png': 'anim-px/gen-aw1-base-w-53-hwanna-gabi_hd.png',
   'anim-px/gen-aw1-base-w-38-sangdang-bulmae.png': 'anim-px/gen-aw1-base-w-38-sangdang-bulmae_hd.png',
-  'anim-px/gen-base-w-29-golpo-janmul.png': 'anim-px/gen-base-w-29-golpo-janmul_hd.png',
   'anim-px/gen-base-w-27-mokji-jinha.png': 'anim-px/gen-base-w-27-mokji-jinha_hd.png',
   'anim-px/gen-aw1-base-w-36-baekje-maena.png': 'anim-px/gen-aw1-base-w-36-baekje-maena_hd.png',
   'anim-px/gen-aw1-base-w-31-dabeol-dalbit.png': 'anim-px/gen-aw1-base-w-31-dabeol-dalbit_hd.png',

diff --git a/tools/sprite-kit/anim-harness.py b/tools/sprite-kit/anim-harness.py
@@ -127,6 +127,7 @@ HEROES = {
     'base-w-45-tamna-oreumbi': dict(hit=True, strip='gen-base-w-45-tamna-oreumbi', atk='whip', src='lassof', actw=288, backfoot=True, atk8=True, act=True, legacy=(('a', 1), ('a', 3), ('b', 3), ('b', 4))),   # 탐라 오름비(밧줄 올가미 · 먼 손에 쥠 · 가슴 L) · 11-25 밧줄 퍼뜨리기(lassof)
     'dallae2': dict(hit=True, strip='gen-dallae2', atk='slash', atk8=True, act=True, legacy=(('a', 1), ('a', 3), ('b', 2), ('b', 4))),   # 살해 달래(굽은 단검 둘 · 가슴 M) · 11-25 열넷째 묶음
     'aryeong': dict(hit=True, strip='gen-aryeong', atk='thrust', src='thrust3', backfoot=True, actw=264, atk8=True, act=True, legacy=(('a', 2), ('a', 3), ('b', 3), ('b', 4))),   # 사로 아령(창 · 가슴 M) · 11-25 열넷째 묶음
+    'janmul': dict(hit=True, strip='gen-base-w-29-golpo-janmul', atk='thrust', src='thrust3', backfoot=True, actw=264, atk8=True, act=True, legacy=(('a', 2), ('a', 3), ('b', 3), ('b', 4))),   # 골포 잔물(주걱 노 · 가슴 M) · 11-25 열넷째 묶음
     'areum': dict(hit=True, strip='gen-areum', atk='slam', atk8=True, act=True, lock='none'),   # 받은 그림 그대로(얼굴을 떠다 붙이지 않는다 — 11-24: 뭉친 얼굴이 여덟 칸에 퍼졌다) · 옛 lock='face': 메가 머리 뒤로 지나간다 — 머리 상자는 메를 자르고(「포스터」), 윗몸을 통째로 묶으면 떠다닌다(11-24 형) → 얼굴 안쪽만 묶는다
 }
 
